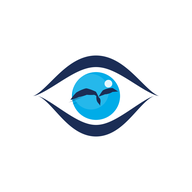
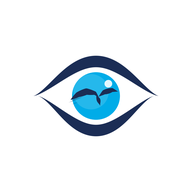
reemplaza el logotipo por el símbolo del ojo con ave en vuelo
Sustituye el logotipo anterior (ave sobre elipse) en todo static/marca/
por la versión definitiva: un ojo cuya pupila es un ave en vuelo. Usa
la misma paleta ya declarada en la guía (azul profundo, cian, azul
medio), así que no cambia ningún valor de docs/identidad-visual.md.

- Regenera favicon.ico, apple-touch-icon.png e icono-192/512.png desde
  el isotipo nuevo (recorte cuadrado + reescalado).
- Completa el logotipo del tema oscuro en base.html: ya no hace falta
  reutilizar el de fondo oscuro como sustituto.
- Mueve la hoja de referencia de marca a docs/identidad-visual-hoja.png
  (documentación, no un archivo de interfaz).

diff --git a/templates/base.html b/templates/base.html
@@ -245,12 +245,7 @@
         <div class="max-w-5xl mx-auto px-4 sm:px-6 h-16 flex justify-between items-center">
             <a href="/" class="flex items-center shrink-0" aria-label="Ojo Avizor">
                 <img src="{% static 'marca/logo-horizontal-fondo-oscuro.png' %}" alt="Ojo Avizor" class="logo-claro w-[150px] h-auto">
-                {% comment %}
-                Pendiente: static/marca/logo-horizontal-modo-oscuro.png (apartado 6 de la
-                guía). Mientras ese archivo no exista, el tema oscuro reutiliza este mismo
-                logo — sigue siendo legible sobre la barra, que es oscura en ambos temas.
-                {% endcomment %}
-                <img src="{% static 'marca/logo-horizontal-fondo-oscuro.png' %}" alt="Ojo Avizor" class="logo-oscuro w-[150px] h-auto">
+                <img src="{% static 'marca/logo-horizontal-modo-oscuro.png' %}" alt="Ojo Avizor" class="logo-oscuro w-[150px] h-auto">
             </a>
 
             <div class="flex items-center gap-1 sm:hidden">

diff --git a/docs/identidad-visual.md b/docs/identidad-visual.md
@@ -197,6 +197,11 @@ Sombras muy sutiles. Este es un producto de consulta, no una tienda.
 
 ## 6. Archivos de marca y dónde va cada uno
 
+**El símbolo.** Un ojo cuya pupila es un ave en vuelo: la observación atenta y aquello que
+se observa, en una sola forma. Los dos arcos que trazan el ojo evocan a su vez unas alas
+abiertas. Ver también `docs/identidad-visual-hoja.png` (hoja de referencia; no es un archivo
+de interfaz, no va en `static/marca/`).
+
 Guárdalos en `static/marca/`.
 
 | Archivo | Dónde se usa |
